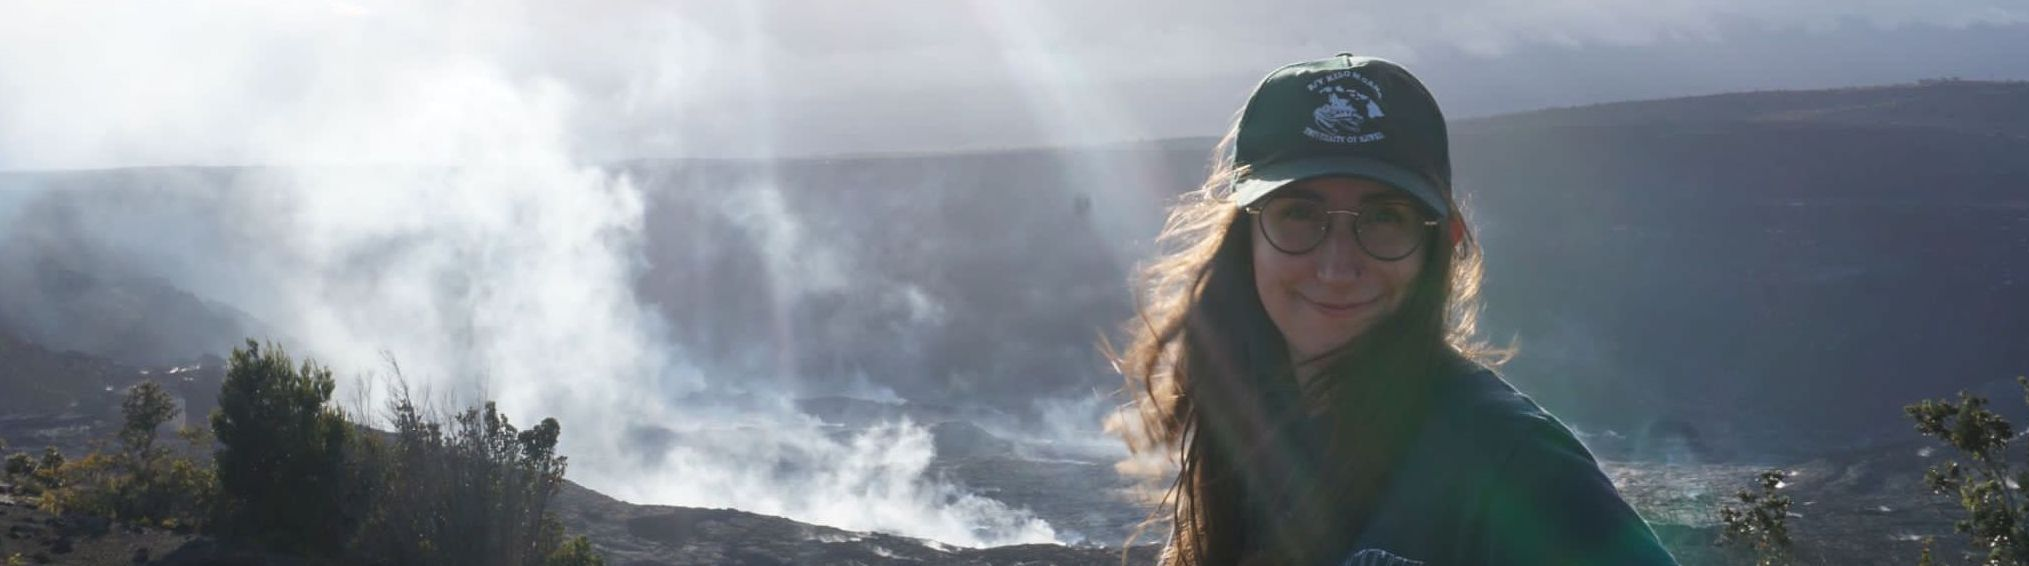
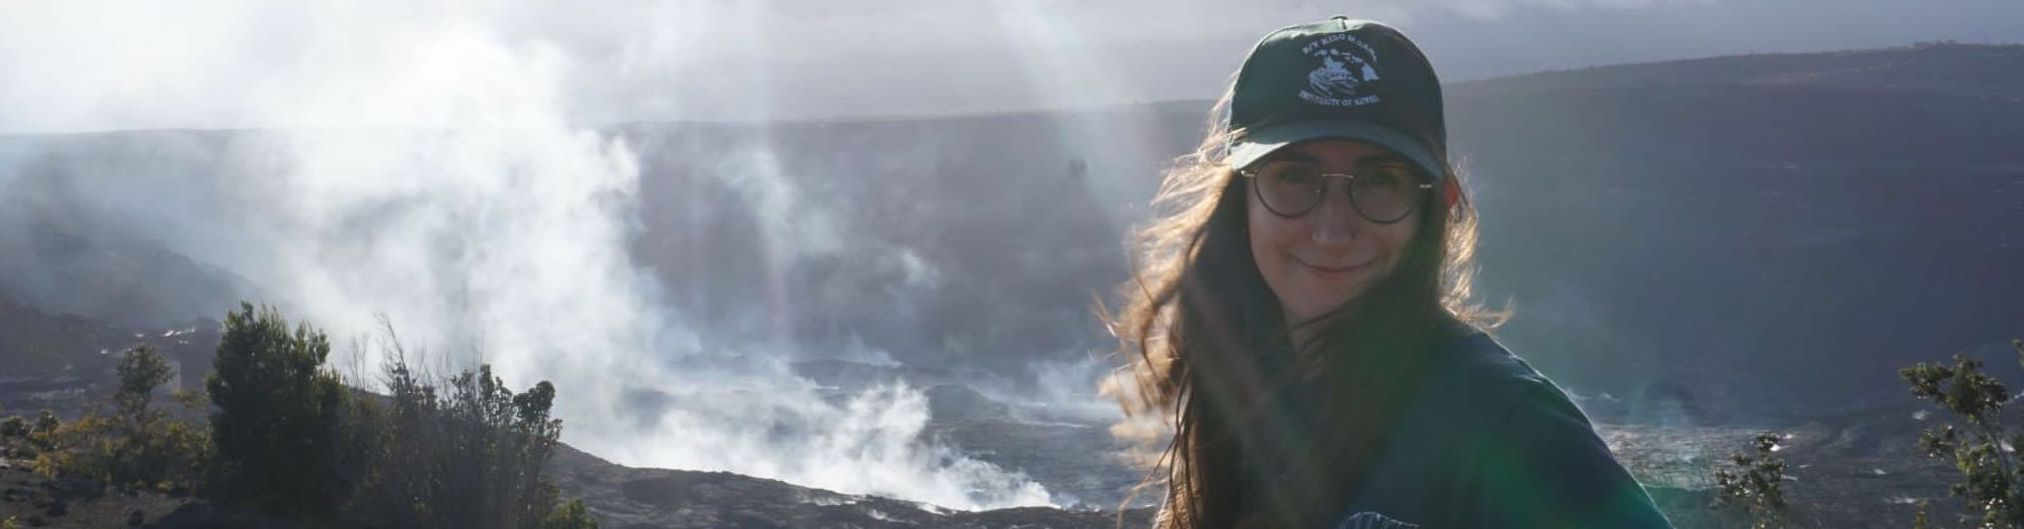
added photo another trim

diff --git a/index.md b/index.md
@@ -9,6 +9,8 @@ layout: default
 About
 </h3>
 
+<br style="line-height:3">
+
 I am a Field System Engineer and Analyst at the Infrasound Lab (ISLA) at the 
 [University of Hawaiʻi (UH)](https://www.hawaii.edu/). At UH, I am affiliated with the 
 [Hawaiʻi Institute of Geophysics and Planetology](https://www.higp.hawaii.edu/) and the 
